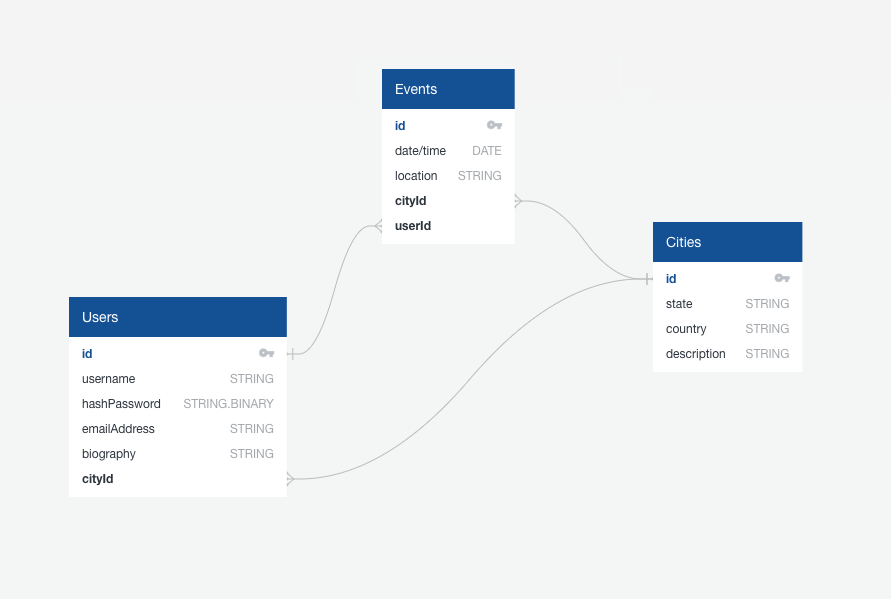
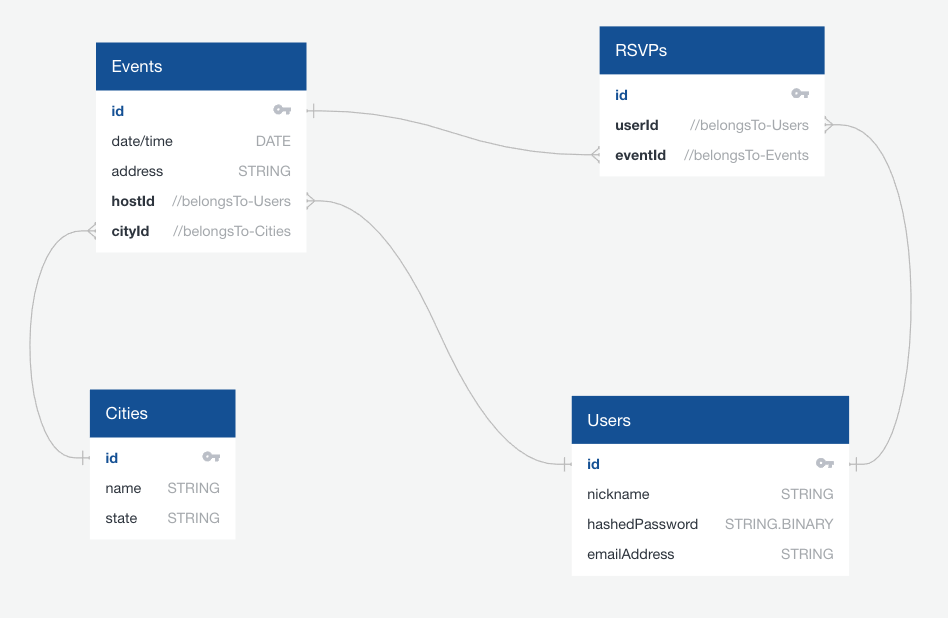
updated feature list

diff --git a/documentation/feature-list.md b/documentation/feature-list.md
@@ -1,37 +1,122 @@
 # Features
-- Choose city
-    - A user can explore the set of cities that are available, and access a list of all the events in that city by clicking on a city name.
-- Join event
-    - A user can choose to RSVP to an event, which will add the event to their dashboard.
-- Host event
-    - A user can create an event to host. They will specify the event name, the date/time, the city, the location, and an event description.
-- Dashboard of joined events/hosted events
-    - Each user has a dashboard where they can see their personal information, as well as a list of upcoming events that they are hosting or attending.
+
+## Login page
+### User Story:
+As a registered user, I want to be able to log in.
+
+### Goals
+#### Acceptance critera
+- [ ] User can visit the /login route and there's a form with email / password / nickname
+- [ ] After user enters a valid email and password they are redirected to the dashboard
+- [ ] If a user enters an invalid email / password, they receive a general message that there was a login error
+- [ ] If a user enters the wrong password, they receive a general message that there was a login error
+- [ ] Refreshing the page after login maintains the user session
+- [ ] User can log out to end the session
+
+
+## View cities and events
+### User Story:
+As a visitor to the website, I should be able to view all of the cities where events are hosted, and access all of the events for each city.
+
+### Goals
+#### Acceptance criteria
+- [ ] Visitors can view the /cities route to browse available events across the different cities
+- [ ] List of cities (as links or buttons) is present in a horizontal bar on the page
+- [ ] clicking a link to a city, displays a table of future events from that city below the list of cities (GET /cities/:id)
+- [ ] The table that appears will include the event name and event time
+- [ ] For each event, a button that takes you to the event details page for that event (GET /events/:id)
+
+#### Stretch goals
+- [ ] Include a description of each city
+- [ ] Include a picture for each city
+- [ ] A map is featured of the city
+- [ ] Map contains pins for each of the events
+
+
+## Join event
+### User Story:
+As a user I want to be able to RSVP to an event, so that I can keep track of events I'm attending.
+
+### Goals
+#### Acceptance criteria
+- [ ] Event detail page is located at /events/:id
+- [ ] Event detail page has all of details about an event in one place
+    - the name
+    - the date/time
+    - the location
+    - the host
+    - the number of attendees
+- [ ] Page includes a button that will allow the user to RSVP to the event
+
+#### Stretch goals
+- [ ] Event detail page will indicate whether or not a user is already attending the event, and if so the join button will go away
+- [ ] A "Cancel RSVP" button will be available to users who are already attending the event
+- [ ] A "Cancel Event" button will be available to the host of the event
+- [ ] The host will be able to see the list of users who have RSVP'd yes to the event on the event detail page
+
+## Host Event
+### User Story:
+As a user, I want to be able to create new events to host. I should be able to choose the name, the location, and the time.
+
+### Goals
+#### Acceptance criteria
+- [ ] Create event page at (/events/create) lets you create a new event
+- Users must provide
+    - [ ] an event name
+    - [ ] a city (from a dropdown list that includes only the cities in our database)
+    - [ ] an address (as a string)
+    - [ ] a time and date
+- [ ] Successful POST would redirect the user to the /events/:id event detail page for the newly created event
+- [ ] Failure to provide a required field would load a list of applicable error messages
+
+## User dashboard
+### User Story:
+As a user, I want to be able to view all my account details and all of my events (the ones I'm hosting, and the ones I'm attending) in one place.
+### Goals
+#### Acceptance criteria
+- [ ] The /dashboard page would allow a user to view their account details and upcoming events
+- [ ] Dashboard greets user with nickname
+- [ ] Dashboard contains a column with a list of all events the user has RSVP’d to
+- [ ] Dashboard contains a column with a list of all events a user is hosting
+- [ ] Each event item in both columns includes a link to the event detail page (/events/:id)
+- [ ] Dashboard contains a button that says “Join an event” which takes the user to the /cities page
+- [ ] Dashboard contains a button that says “Host a new event” which takes a user to the /events/create page
+
+#### Stretch goals
+- [ ] Serves a random “inspirational” quote to user
+- [ ] Separate past and future events (event history)
+
+
 
 ## Models
 - City
+    - id (primary key)
+    - name
     - state
-    - country
-    - description
 - User
-    - username
-    - password
+    - id (primary key)
+    - nickname
+    - hashedPassword
     - email address
-    - biography
-    - cityId foreign key
 - Event
+    - id (primary key)
     - name
     - date/time
-    - location (address)
-    - cityId foreign key
-    - userId foreign key (points to the host user)
+    - address
+    - cityId (foreign key references City.id)
+    - hostId (foreign key references User.id)
     - description
+- RSVPs (join table for users and events)
+    - id (primary key)
+    - userId (foreign key references User.id)
+    - eventId (foreign key references Event.id)
 
-## Endpoints
-- A page that contains a list of cities. Clicking on a city fetches some information about the city, along with a table of upcoming events (name, date/time, location).
-- An event detail page, which will include a button so that users can RSVP to the event. This will add the event to their dashboard.
-- Create an event page, which contains a form where they specify all of the event info. Clicking the submit button will create the event so that it appears on their dashboard, and in the list of events in that city.
-- Dashboard where users can view their personal details, along with a list of events they are attending, and a list of events they are hosting.
+# Endpoints
+- /
+- /cities
+- /cities/:id
+- /dashboard
+- /events/:id
 
-Schema:
+# Schema:
 ![Schema](schema.png)
